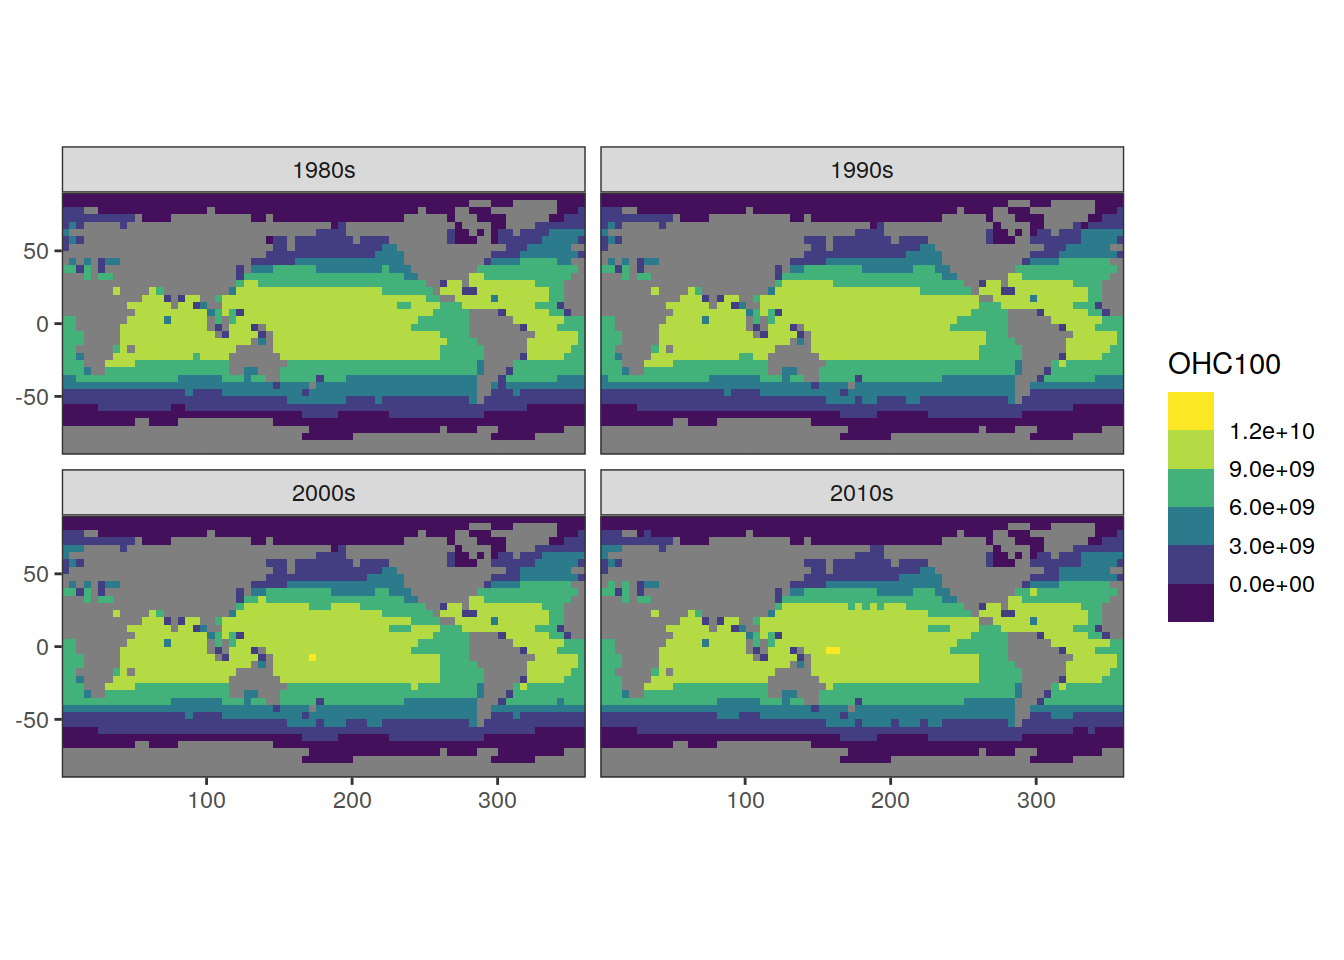
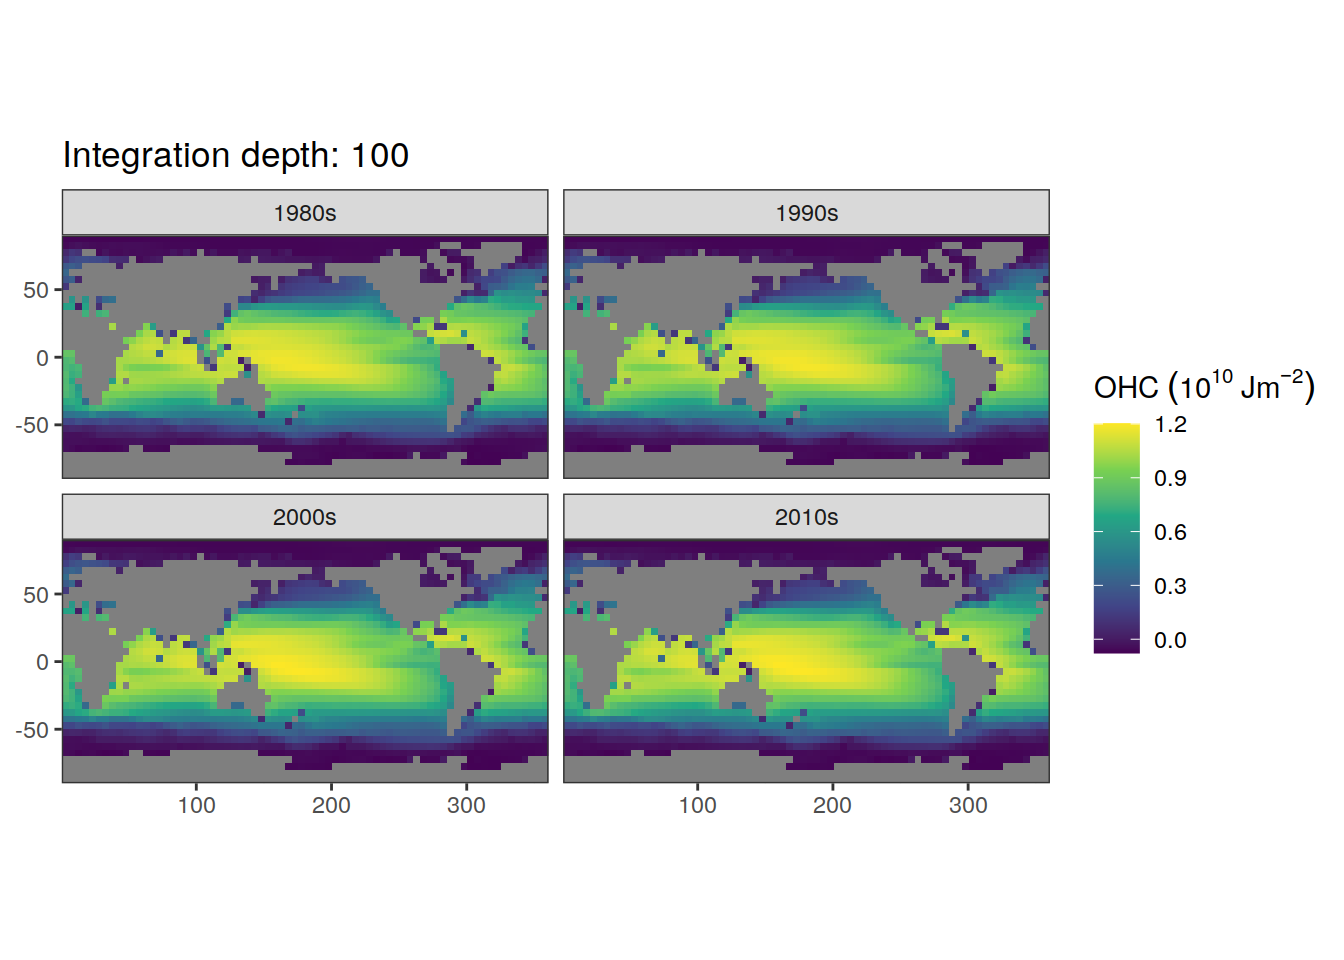
Build site.

diff --git a/docs/read_ohc_data.html b/docs/read_ohc_data.html
@@ -503,16 +503,16 @@ This reproducible <a href="https://rmarkdown.rstudio.com">R Markdown</a> analysi
 <div class="panel panel-default">
 <div class="panel-heading">
 <p class="panel-title">
-<a data-toggle="collapse" data-parent="#workflowr-checks" href="#strongRepositoryversionstrongahrefhttpsgithubcomjensdanielmuelleroceanheatandcarboncontenttreee6d756bb7666d7293fabe0794ceef95f71029db0targetblanke6d756ba"> <span class="glyphicon glyphicon-ok text-success" aria-hidden="true"></span> <strong>Repository version:</strong> <a href="https://github.com/jens-daniel-mueller/ocean_heat_and_carbon_content/tree/e6d756bb7666d7293fabe0794ceef95f71029db0" target="_blank">e6d756b</a> </a>
+<a data-toggle="collapse" data-parent="#workflowr-checks" href="#strongRepositoryversionstrongahrefhttpsgithubcomjensdanielmuelleroceanheatandcarboncontenttreed61f31a417253243808d9ee3fca2928045b6f2b3targetblankd61f31aa"> <span class="glyphicon glyphicon-ok text-success" aria-hidden="true"></span> <strong>Repository version:</strong> <a href="https://github.com/jens-daniel-mueller/ocean_heat_and_carbon_content/tree/d61f31a417253243808d9ee3fca2928045b6f2b3" target="_blank">d61f31a</a> </a>
 </p>
 </div>
[2 lines of base64/hex data omitted]
 <div class="panel-body">
 <p>
 Great! You are using Git for version control. Tracking code development and connecting the code version to the results is critical for reproducibility.
 </p>
 <p>
-The results in this page were generated with repository version <a href="https://github.com/jens-daniel-mueller/ocean_heat_and_carbon_content/tree/e6d756bb7666d7293fabe0794ceef95f71029db0" target="_blank">e6d756b</a>. See the <em>Past versions</em> tab to see a history of the changes made to the R Markdown and HTML files.
+The results in this page were generated with repository version <a href="https://github.com/jens-daniel-mueller/ocean_heat_and_carbon_content/tree/d61f31a417253243808d9ee3fca2928045b6f2b3" target="_blank">d61f31a</a>. See the <em>Past versions</em> tab to see a history of the changes made to the R Markdown and HTML files.
 </p>
 <p>
 Note that you need to be careful to ensure that all relevant files for the analysis have been committed to Git prior to generating the results (you can use <code>wflow_publish</code> or <code>wflow_git_commit</code>). workflowr only checks the R Markdown file, but you know if there are other scripts or data files that it depends on. Below is the status of the Git repository when the results were generated:
@@ -562,6 +562,40 @@ Message
 </tr>
 </thead>
 <tbody>
+<tr>
+<td>
+Rmd
+</td>
+<td>
+<a href="https://github.com/jens-daniel-mueller/ocean_heat_and_carbon_content/blob/d61f31a417253243808d9ee3fca2928045b6f2b3/analysis/read_ohc_data.Rmd" target="_blank">d61f31a</a>
+</td>
+<td>
+jens-daniel-mueller
+</td>
+<td>
+2022-09-02
+</td>
+<td>
+revised total OHC maps
+</td>
+</tr>
+<tr>
+<td>
+html
+</td>
+<td>
+<a href="https://rawcdn.githack.com/jens-daniel-mueller/ocean_heat_and_carbon_content/56ff3fec261ad2e38671d9b0ceeced4fd1026c9e/docs/read_ohc_data.html" target="_blank">56ff3fe</a>
+</td>
+<td>
+jens-daniel-mueller
+</td>
+<td>
+2022-09-02
+</td>
+<td>
+Build site.
+</td>
+</tr>
 <tr>
 <td>
 Rmd
@@ -701,14 +735,62 @@ ohc_stars_mean &lt;- ohc_stars_mean %&gt;%
 decades_ohc &lt;- paste0(str_sub(st_get_dimension_values(ohc_stars_mean, &quot;time&quot;), 1,4), &quot;s&quot;)
 ohc_stars_mean &lt;- st_set_dimensions(ohc_stars_mean, &quot;time&quot;, values = decades_ohc)
 
-
-ggplot() +
-  geom_stars(data = ohc_stars_mean) +
-  facet_wrap(~time) +
-  coord_quickmap(expand = 0) +
-  scale_fill_viridis_b() +
-  theme(axis.title = element_blank())</code></pre>
+for (i_name in names(ohc_stars_mean)) {
+  # i_name &lt;- names(ohc_stars_mean)[1]
+  
+  print(
+    ggplot() +
+      geom_stars(data = ohc_stars_mean,
+                 aes(x, y, fill = !!sym(i_name) / 1e10)) +
+      facet_wrap( ~ time) +
+      coord_quickmap(expand = 0) +
+      scale_fill_viridis_c(name = expression(OHC ~ (10 ^ 10 ~ J * m ^ -2))) +
+      labs(title = paste(
+        &quot;Integration depth:&quot;, str_remove(i_name, &quot;OHC&quot;)
+      )) +
+      theme(axis.title = element_blank())
+  )
+  
+}</code></pre>
 <p><img src="figure/read_ohc_data.Rmd/regridding-1.png" width="672" style="display: block; margin: auto;" /></p>
+<p>
+<button type="button" class="btn btn-default btn-xs btn-workflowr btn-workflowr-fig" data-toggle="collapse" data-target="#fig-regridding-1">
+Past versions of regridding-1.png
+</button>
+</p>
+<div id="fig-regridding-1" class="collapse">
+<div class="table-responsive">
+<table class="table table-condensed table-hover">
+<thead>
+<tr>
+<th>
+Version
+</th>
+<th>
+Author
+</th>
+<th>
+Date
+</th>
+</tr>
+</thead>
+<tbody>
+<tr>
+<td>
+<a href="https://github.com/jens-daniel-mueller/ocean_heat_and_carbon_content/blob/56ff3fec261ad2e38671d9b0ceeced4fd1026c9e/docs/figure/read_ohc_data.Rmd/regridding-1.png" target="_blank">56ff3fe</a>
+</td>
+<td>
+jens-daniel-mueller
+</td>
+<td>
+2022-09-02
+</td>
+</tr>
+</tbody>
+</table>
+</div>
+</div>
+<p><img src="figure/read_ohc_data.Rmd/regridding-2.png" width="672" style="display: block; margin: auto;" /><img src="figure/read_ohc_data.Rmd/regridding-3.png" width="672" style="display: block; margin: auto;" /><img src="figure/read_ohc_data.Rmd/regridding-4.png" width="672" style="display: block; margin: auto;" /><img src="figure/read_ohc_data.Rmd/regridding-5.png" width="672" style="display: block; margin: auto;" /></p>
 </div>
 <div id="decadal-changes" class="section level1" number="3">
 <h1><span class="header-section-number">3</span> Decadal changes</h1>
@@ -746,6 +828,43 @@ ohc_decade_change %&gt;%
   facet_grid(depth~delta_decade) +
   theme(axis.title = element_blank())</code></pre>
 <p><img src="figure/read_ohc_data.Rmd/decadal_changes_total_column_inventories-1.png" width="672" style="display: block; margin: auto;" /></p>
+<p>
+<button type="button" class="btn btn-default btn-xs btn-workflowr btn-workflowr-fig" data-toggle="collapse" data-target="#fig-decadal_changes_total_column_inventories-1">
+Past versions of decadal_changes_total_column_inventories-1.png
+</button>
+</p>
+<div id="fig-decadal_changes_total_column_inventories-1" class="collapse">
+<div class="table-responsive">
+<table class="table table-condensed table-hover">
+<thead>
+<tr>
+<th>
+Version
+</th>
+<th>
+Author
+</th>
+<th>
+Date
+</th>
+</tr>
+</thead>
+<tbody>
+<tr>
+<td>
+<a href="https://github.com/jens-daniel-mueller/ocean_heat_and_carbon_content/blob/56ff3fec261ad2e38671d9b0ceeced4fd1026c9e/docs/figure/read_ohc_data.Rmd/decadal_changes_total_column_inventories-1.png" target="_blank">56ff3fe</a>
+</td>
+<td>
+jens-daniel-mueller
+</td>
+<td>
+2022-09-02
+</td>
+</tr>
+</tbody>
+</table>
+</div>
+</div>
 </div>
 <div id="depth-layer-column-inventories" class="section level2" number="3.2">
 <h2><span class="header-section-number">3.2</span> Depth layer column inventories</h2>
@@ -769,6 +888,43 @@ ohc_decade_change_layer %&gt;%
   facet_grid(layer~delta_decade) +
   theme(axis.title = element_blank())</code></pre>
 <p><img src="figure/read_ohc_data.Rmd/decadal_changes_column_inventories_depth_layer-1.png" width="672" style="display: block; margin: auto;" /></p>
+<p>
+<button type="button" class="btn btn-default btn-xs btn-workflowr btn-workflowr-fig" data-toggle="collapse" data-target="#fig-decadal_changes_column_inventories_depth_layer-1">
+Past versions of decadal_changes_column_inventories_depth_layer-1.png
+</button>
+</p>
+<div id="fig-decadal_changes_column_inventories_depth_layer-1" class="collapse">
+<div class="table-responsive">
+<table class="table table-condensed table-hover">
+<thead>
+<tr>
+<th>
+Version
+</th>
+<th>
+Author
+</th>
+<th>
+Date
+</th>
+</tr>
+</thead>
+<tbody>
+<tr>
+<td>
+<a href="https://github.com/jens-daniel-mueller/ocean_heat_and_carbon_content/blob/56ff3fec261ad2e38671d9b0ceeced4fd1026c9e/docs/figure/read_ohc_data.Rmd/decadal_changes_column_inventories_depth_layer-1.png" target="_blank">56ff3fe</a>
+</td>
+<td>
+jens-daniel-mueller
+</td>
+<td>
+2022-09-02
+</td>
+</tr>
+</tbody>
+</table>
+</div>
+</div>
 <pre class="r"><code>ohc_decade_change_layer %&gt;% 
   ggplot(aes(lon, lat, fill = delta_OHC_layer_per_m)) +
   geom_raster() +
@@ -778,6 +934,43 @@ ohc_decade_change_layer %&gt;%
   facet_grid(layer~delta_decade) +
   theme(axis.title = element_blank())</code></pre>
 <p><img src="figure/read_ohc_data.Rmd/decadal_changes_column_inventories_depth_layer-2.png" width="672" style="display: block; margin: auto;" /></p>
+<p>
+<button type="button" class="btn btn-default btn-xs btn-workflowr btn-workflowr-fig" data-toggle="collapse" data-target="#fig-decadal_changes_column_inventories_depth_layer-2">
+Past versions of decadal_changes_column_inventories_depth_layer-2.png
+</button>
+</p>
+<div id="fig-decadal_changes_column_inventories_depth_layer-2" class="collapse">
+<div class="table-responsive">
+<table class="table table-condensed table-hover">
+<thead>
+<tr>
+<th>
+Version
+</th>
+<th>
+Author
+</th>
+<th>
+Date
+</th>
+</tr>
+</thead>
+<tbody>
+<tr>
+<td>
+<a href="https://github.com/jens-daniel-mueller/ocean_heat_and_carbon_content/blob/56ff3fec261ad2e38671d9b0ceeced4fd1026c9e/docs/figure/read_ohc_data.Rmd/decadal_changes_column_inventories_depth_layer-2.png" target="_blank">56ff3fe</a>
+</td>
+<td>
+jens-daniel-mueller
+</td>
+<td>
+2022-09-02
+</td>
+</tr>
+</tbody>
+</table>
+</div>
+</div>
 <pre class="r"><code># st_crs(ohc_stars_mean) = 4326
 # st_transform(ohc_stars_mean, st_crs(9001))</code></pre>
 <br>
